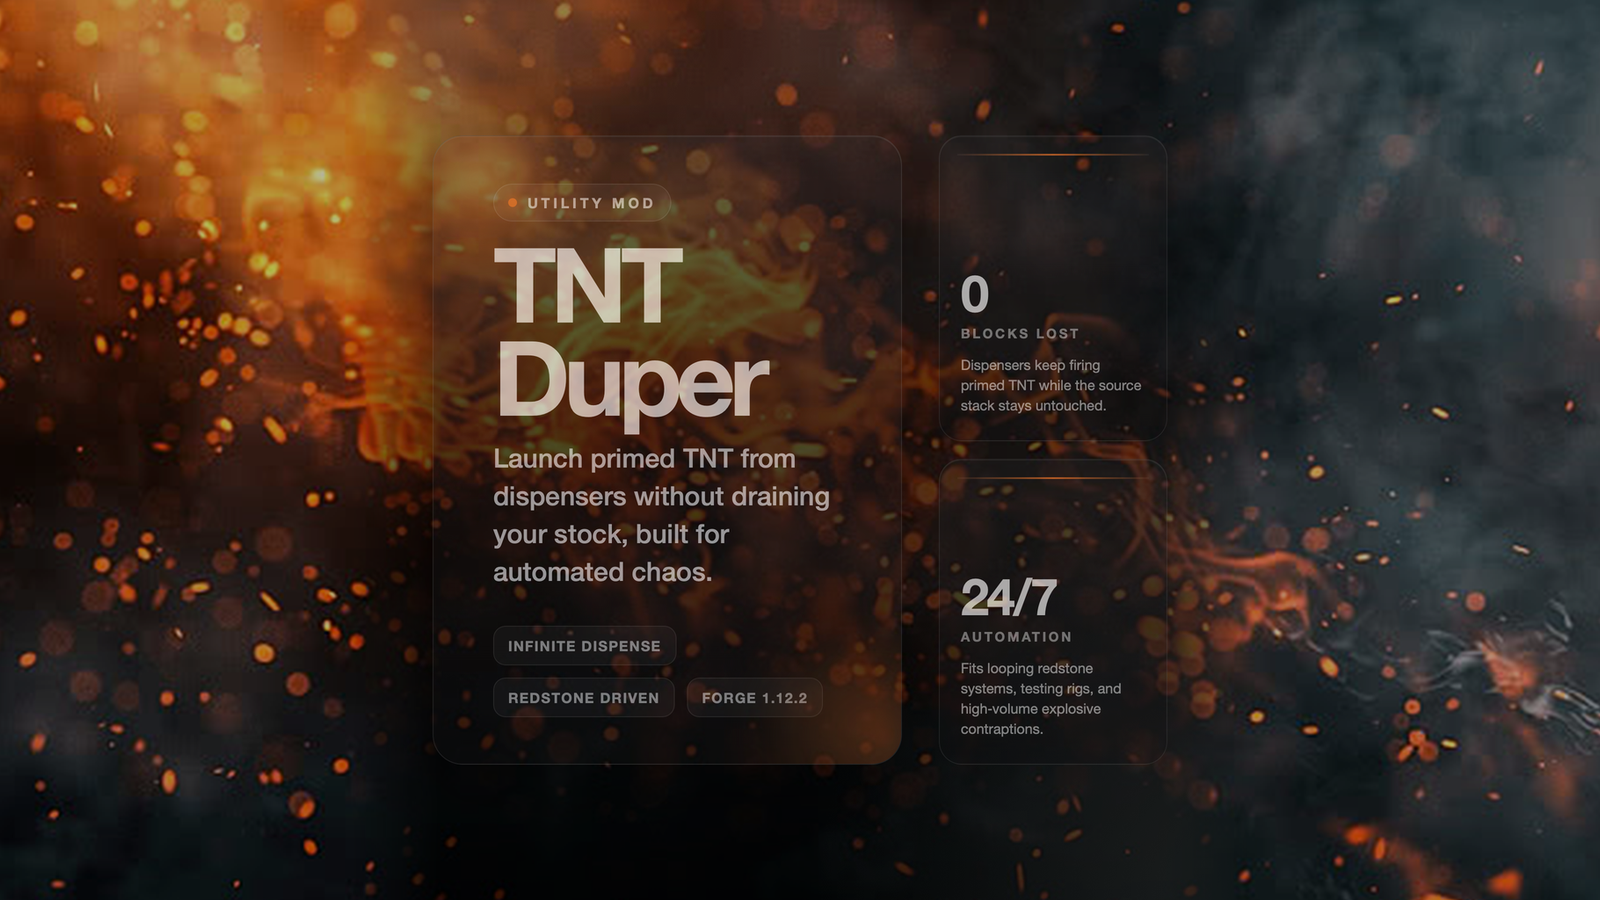
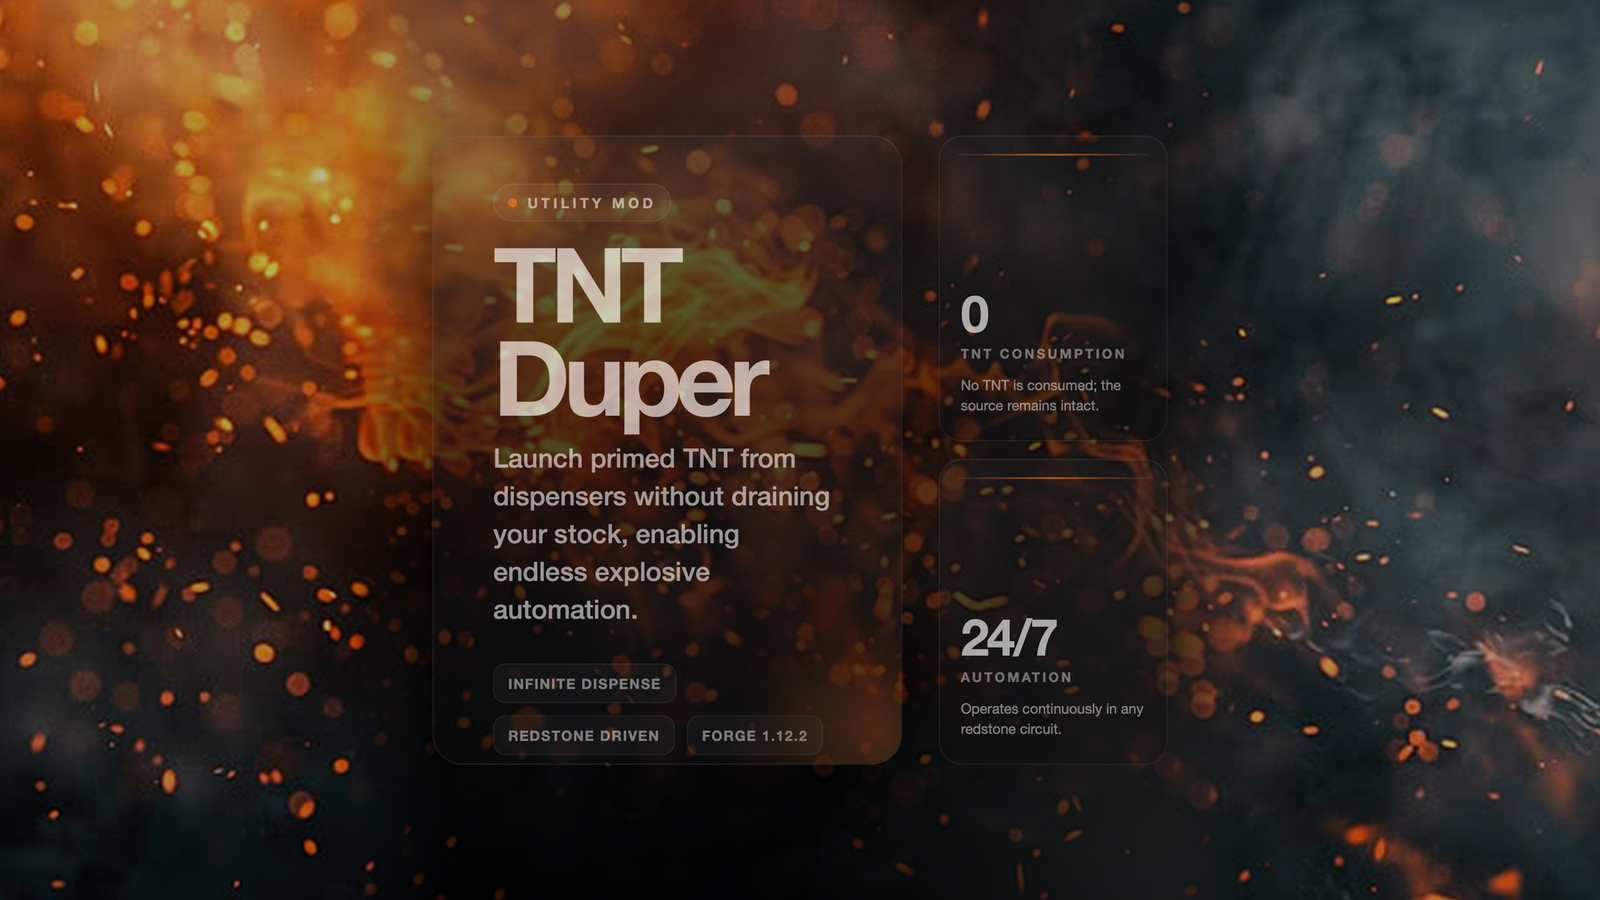
Auto-sync TNT Duper source snapshot

diff --git a/docs/Home.md b/docs/Home.md
@@ -1,14 +1,19 @@
 # TNT Duper
 
-This mod lets dispensers duplicate TNT. When a dispenser is given a TNT block, it will spawn a TNT entity but keep the original TNT in the dispenser, so you can keep using it over and over. This makes it easy to set up automatic TNT farms or traps without needing to constantly restock the dispenser.
+A simple mod that lets dispensers copy and spit out TNT over and over without using up the block.
 
-The change is simple: the dispenser does not consume the TNT item, so the same piece of TNT can be used again and again.
+## What It Does
+
+- When a dispenser with TNT tries to give you the TNT, it instead creates a new primed TNT entity that starts its fuse.
+- The original TNT stays in the dispenser, so you can keep pulling it out again and again.
+- The spawned TNT works like normal TNT—you can ignite it, move it, or let it explode.
+- No new items, blocks, commands, or mobs are added; it only changes how dispensers handle TNT.
 
 ## Quick Facts
 
 
 
-- Summary: Wanting to have infinite TNT from dispensers?
+- Summary: Hate that dispensers use up your TNT? This mod makes dispensers fire TNT without consuming it, so you can pull it out again and again.
 
 - Loader: `forge`
 

diff --git a/docs/README.md b/docs/README.md
@@ -1,14 +1,19 @@
 # TNT Duper
 
-This mod lets dispensers duplicate TNT. When a dispenser is given a TNT block, it will spawn a TNT entity but keep the original TNT in the dispenser, so you can keep using it over and over. This makes it easy to set up automatic TNT farms or traps without needing to constantly restock the dispenser.
+A simple mod that lets dispensers copy and spit out TNT over and over without using up the block.
 
-The change is simple: the dispenser does not consume the TNT item, so the same piece of TNT can be used again and again.
+## What It Does
+
+- When a dispenser with TNT tries to give you the TNT, it instead creates a new primed TNT entity that starts its fuse.
+- The original TNT stays in the dispenser, so you can keep pulling it out again and again.
+- The spawned TNT works like normal TNT—you can ignite it, move it, or let it explode.
+- No new items, blocks, commands, or mobs are added; it only changes how dispensers handle TNT.
 
 ## Quick Facts
 
 
 
-- Summary: Wanting to have infinite TNT from dispensers?
+- Summary: Hate that dispensers use up your TNT? This mod makes dispensers fire TNT without consuming it, so you can pull it out again and again.
 
 - Loader: `forge`
 

diff --git a/README.md b/README.md
@@ -1,8 +1,13 @@
 # TNT Duper
 
-This mod lets dispensers duplicate TNT. When a dispenser is given a TNT block, it will spawn a TNT entity but keep the original TNT in the dispenser, so you can keep using it over and over. This makes it easy to set up automatic TNT farms or traps without needing to constantly restock the dispenser.
+A simple mod that lets dispensers copy and spit out TNT over and over without using up the block.
 
-The change is simple: the dispenser does not consume the TNT item, so the same piece of TNT can be used again and again.
+## What It Does
+
+- When a dispenser with TNT tries to give you the TNT, it instead creates a new primed TNT entity that starts its fuse.
+- The original TNT stays in the dispenser, so you can keep pulling it out again and again.
+- The spawned TNT works like normal TNT—you can ignite it, move it, or let it explode.
+- No new items, blocks, commands, or mobs are added; it only changes how dispensers handle TNT.
 
 ---
 
